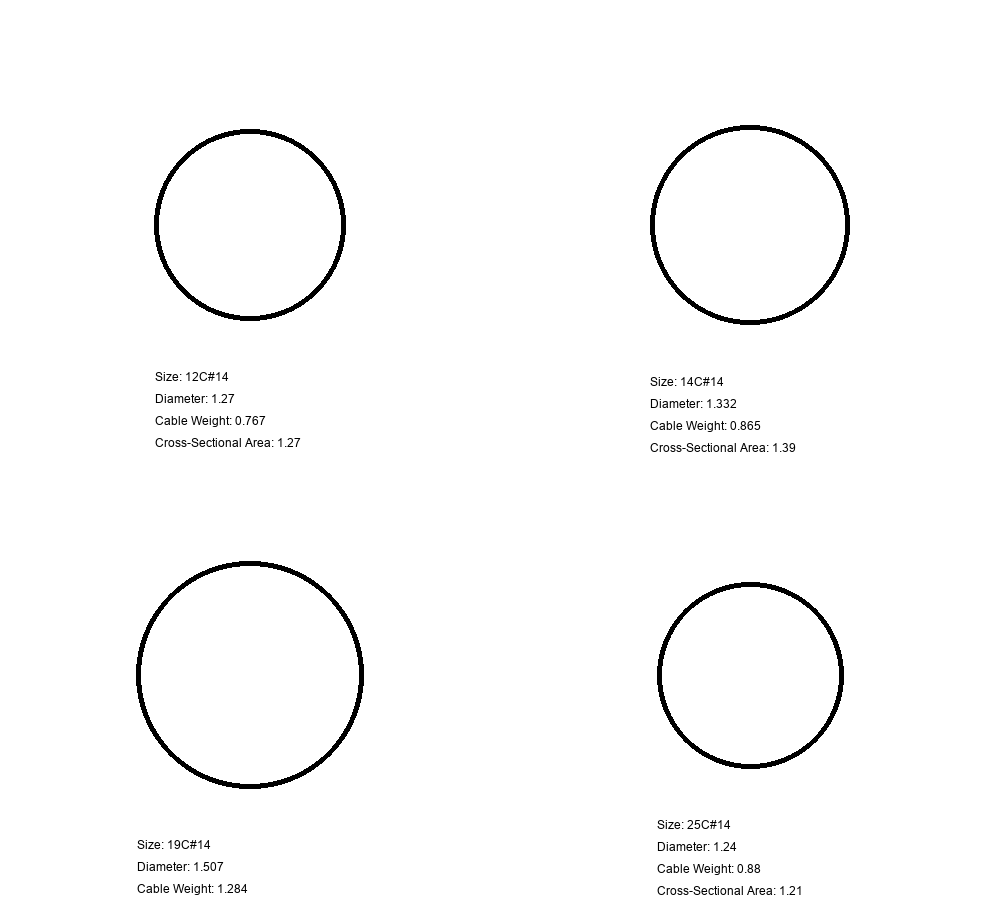
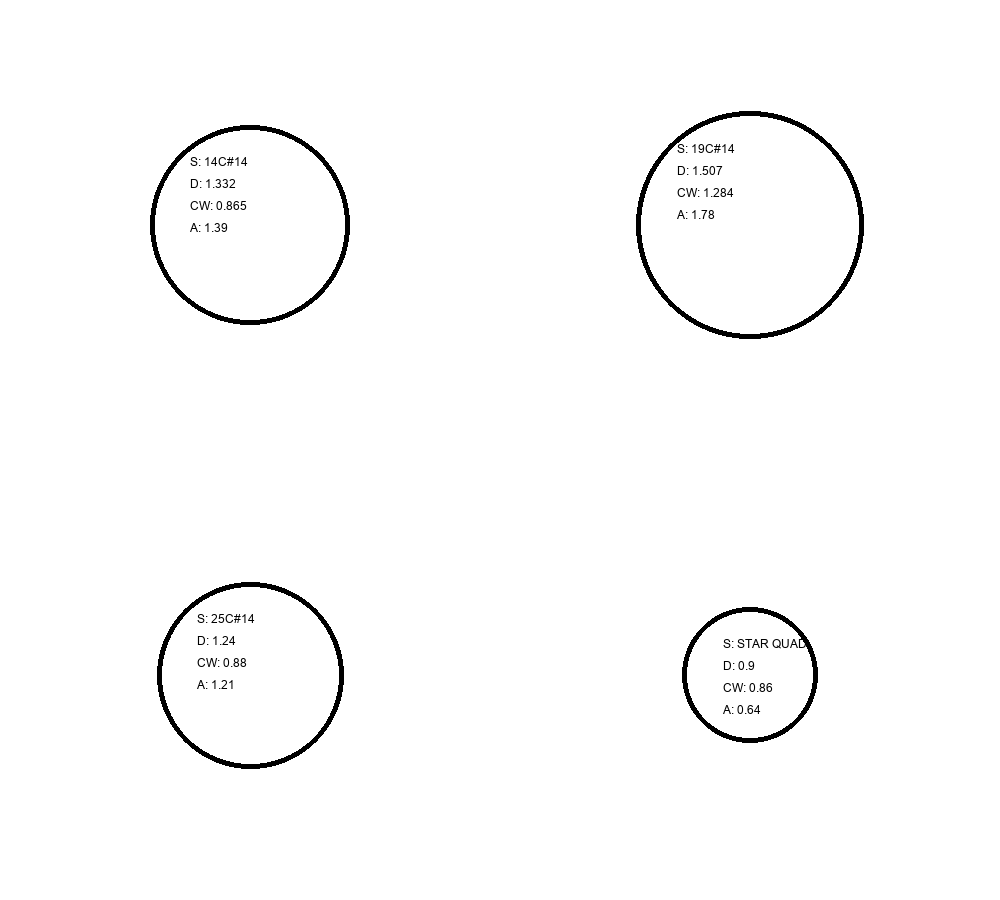
text centering within circle

diff --git a/visualizer.py b/visualizer.py
@@ -1,3 +1,67 @@
+# from cable_classes import *
+# from user_interface import *
+# from file_handler import *
+# from PIL import Image, ImageDraw, ImageFont
+#
+#
+# def generate_cable_image(cables):
+#     # Define the image size and other parameters
+#     image_size = (1000, 900)  # Higher resolution image size
+#     text_margin = 50
+#     font_size = 12  # Larger font size
+#
+#     # Calculate the quadrant size based on the image size
+#     quadrant_size = (image_size[0] // 2, image_size[1] // 2)
+#
+#     # Create a new image with a white background
+#     image = Image.new("RGB", image_size, "white")
+#     draw = ImageDraw.Draw(image)
+#
+#     for i, cable in enumerate(cables):
+#         # Calculate the scaled radius based on the cable's diameter
+#         diameter = cable.diameter
+#         scaling_factor = 150  # Increase the scaling factor
+#         cable_radius = diameter * scaling_factor / 2  # Adjust the scaling factor here
+#
+#         # Calculate the coordinates for the center of the quadrant based on the index
+#         center_x = (i % 2) * quadrant_size[0] + quadrant_size[0] // 2
+#         center_y = (i // 2) * quadrant_size[1] + quadrant_size[1] // 2
+#         center = (center_x, center_y)
+#
+#         # Draw the cable as a filled circle with a border
+#         cable_color = "black"
+#         cable_outline_color = "black"
+#         cable_outline_width = 5  # Thicker outline
+#         cable_bbox = (
+#             center[0] - cable_radius,
+#             center[1] - cable_radius,
+#             center[0] + cable_radius,
+#             center[1] + cable_radius,
+#         )
+#         draw.ellipse(cable_bbox, outline=cable_outline_color, width=cable_outline_width)
+#
+#         # Create a text label with the cable information
+#         text_x = center_x - cable_radius
+#         text_y = center_y + cable_radius + text_margin
+#         text_color = "black"
+#         font = ImageFont.truetype("arial.ttf", font_size)  # Set the font size
+#         text_lines = [
+#             f"Size: {cable.size}",
+#             f"Diameter: {cable.diameter}",
+#             f"Cable Weight: {cable.pounds_per_foot}",
+#             f"Cross-Sectional Area: {cable.cross_sectional_area}",
+#         ]
+#         for line in text_lines:
+#             draw.text((text_x, text_y), line, fill=text_color, font=font)
+#             text_y += font_size + 10  # Adjust the vertical spacing
+#
+#     # Save the image to a file or display it
+#     image.save("cable_image.png", dpi=(300, 300))  # Higher resolution (300 DPI)
+#     image.show()
+#
+# get_cable_sizes()
+# generate_cable_image(cable_sizes[7:11])  # Extract cables from indices 2 to 4 (inclusive)
+
 from cable_classes import *
 from user_interface import *
 from file_handler import *
@@ -7,8 +71,10 @@ from PIL import Image, ImageDraw, ImageFont
 def generate_cable_image(cables):
     # Define the image size and other parameters
     image_size = (1000, 900)  # Higher resolution image size
-    text_margin = 50
+    text_margin = 10  # Decreased margin
     font_size = 12  # Larger font size
+    offset_x = 40  # Offset in the x-direction
+    offset_y = 40  # Offset in the y-direction
 
     # Calculate the quadrant size based on the image size
     quadrant_size = (image_size[0] // 2, image_size[1] // 2)
@@ -41,15 +107,15 @@ def generate_cable_image(cables):
         draw.ellipse(cable_bbox, outline=cable_outline_color, width=cable_outline_width)
 
         # Create a text label with the cable information
-        text_x = center_x - cable_radius
-        text_y = center_y + cable_radius + text_margin
+        text_x = center_x - cable_radius + offset_x  # Add x-direction offset
+        text_y = center_y - cable_radius - text_margin + offset_y  # Add y-direction offset
         text_color = "black"
         font = ImageFont.truetype("arial.ttf", font_size)  # Set the font size
         text_lines = [
-            f"Size: {cable.size}",
-            f"Diameter: {cable.diameter}",
-            f"Cable Weight: {cable.pounds_per_foot}",
-            f"Cross-Sectional Area: {cable.cross_sectional_area}",
+            f"S: {cable.size}",
+            f"D: {cable.diameter}",
+            f"CW: {cable.pounds_per_foot}",
+            f"A: {cable.cross_sectional_area}",
         ]
         for line in text_lines:
             draw.text((text_x, text_y), line, fill=text_color, font=font)
@@ -59,5 +125,5 @@ def generate_cable_image(cables):
     image.save("cable_image.png", dpi=(300, 300))  # Higher resolution (300 DPI)
     image.show()
 
-
-
+get_cable_sizes()
+generate_cable_image(cable_sizes[7:11])  # Extract cables from indices 7 to 10 (inclusive)

diff --git a/main.py b/main.py
@@ -5,5 +5,5 @@ from visualizer import *
 
 get_cable_sizes()
 
-print(len(cable_sizes))
-generate_cable_image(cable_sizes[6:11])  # Extract cables from indices 2 to 4 (inclusive)
+user_interface()
+
